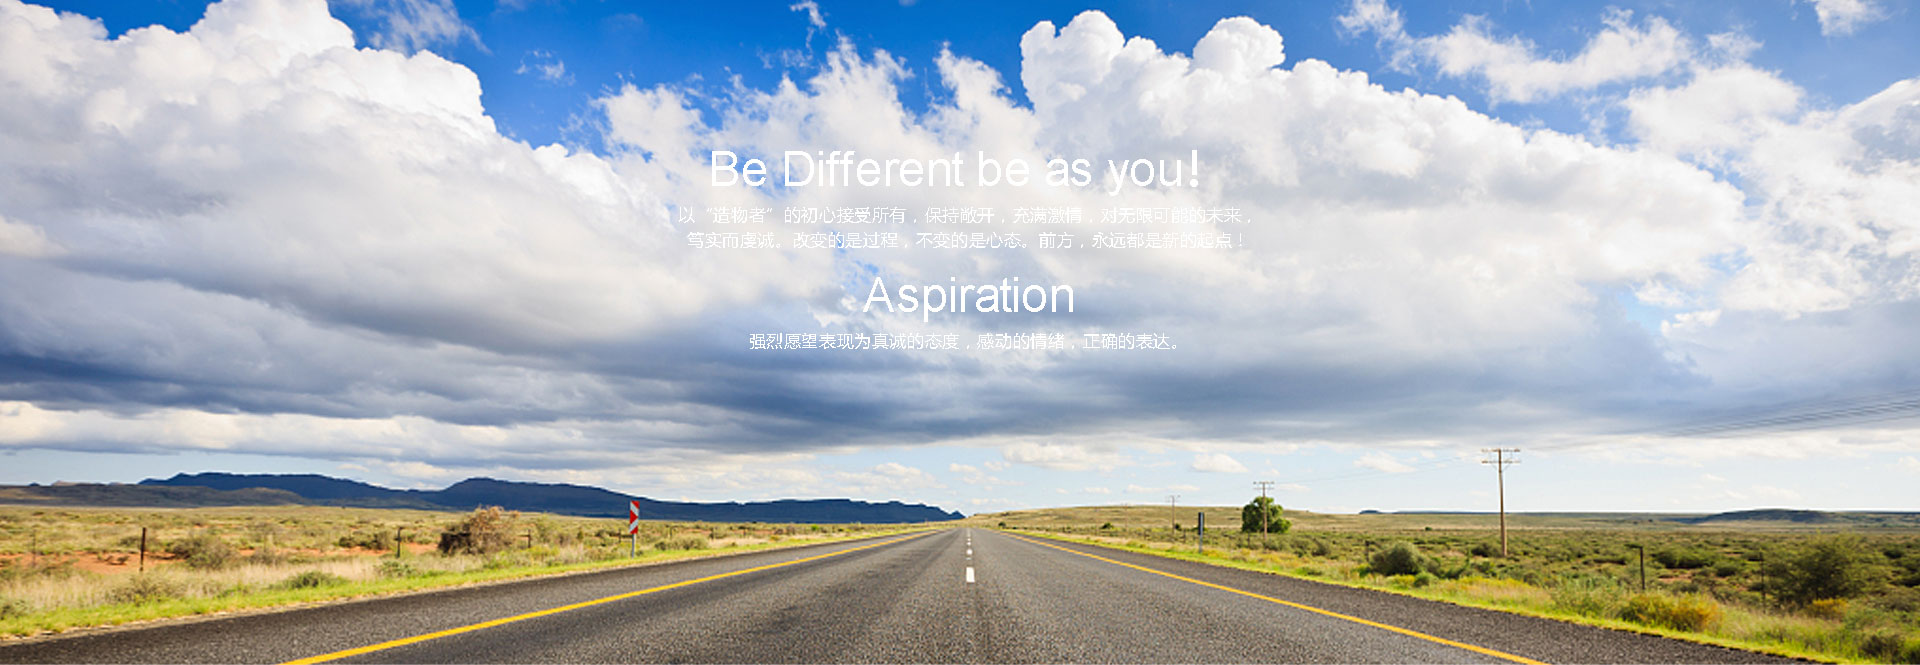
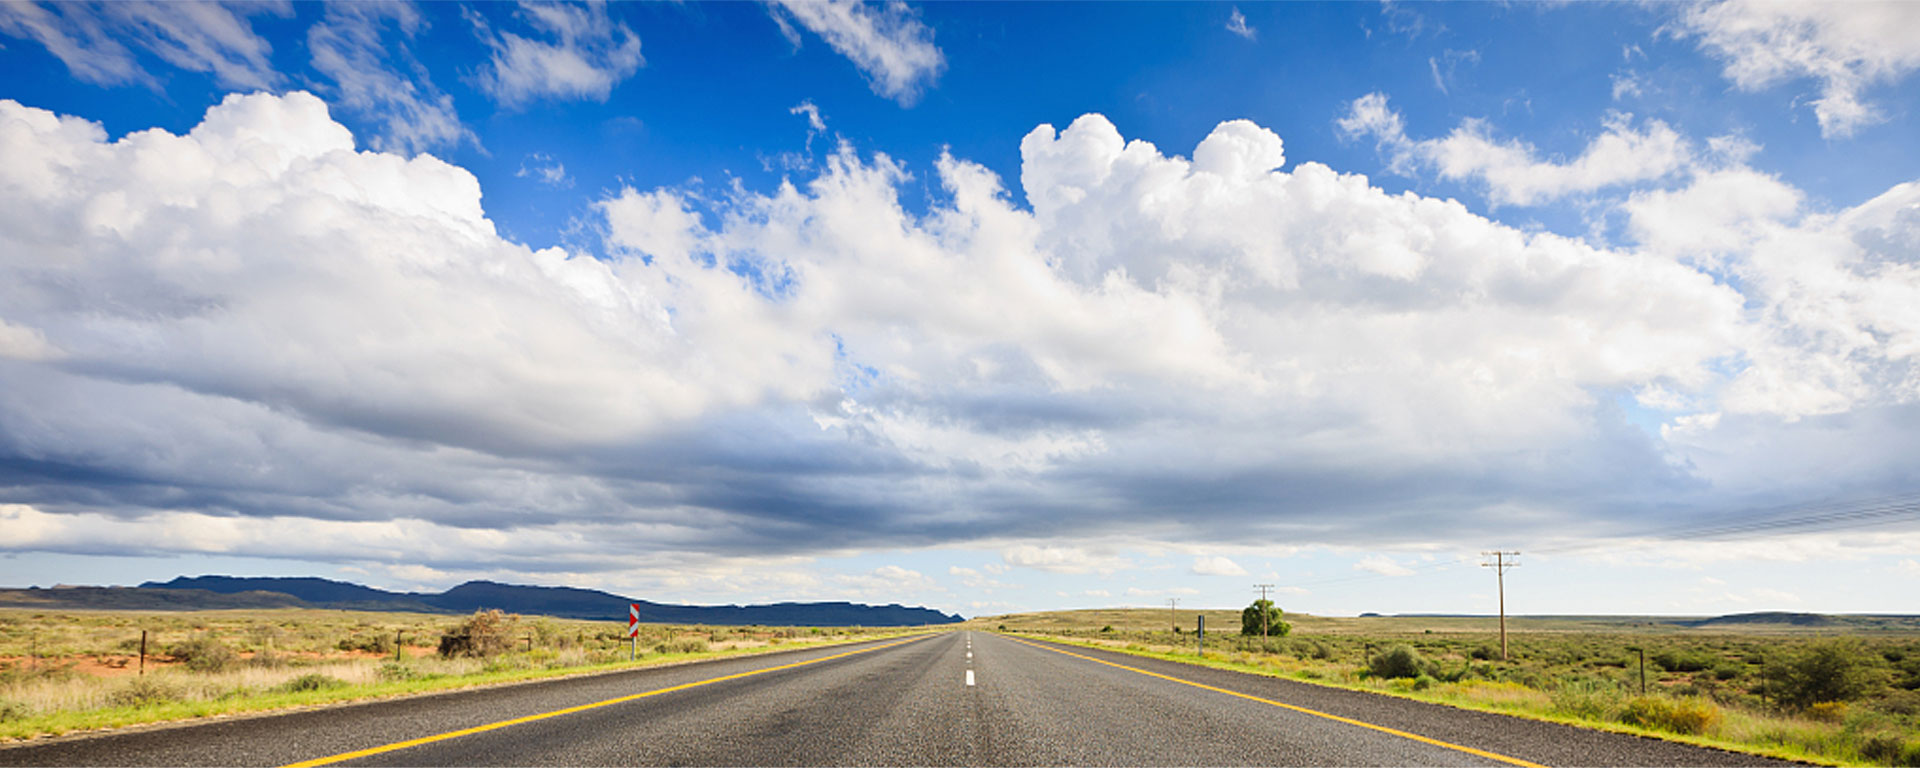
修改BUG完善理念

diff --git a/page/templates/page/faith.html b/page/templates/page/faith.html
@@ -11,12 +11,30 @@
  {% endblock %}
 {% block content %}
 <section class="main">
-<div class="down text-center"><i class="fa fa-angle-double-down" aria-hidden="true"></i></div>
+    <div class="text-center">
+            <h2>Be Different be as you！</h3>
+            <p>以“造物者”的初心接受所有，保持敞开，充满激情，对无限可能的未来，
+                <br/>笃实而虔诚。改变的是过程，不变的是心态。前方，永远都是新的起点！</p>
+            <h2>Aspiration</h3>
+            <p>强烈愿望表现为真诚的态度，感动的情绪，正确的表达</p>
+    </div>
+    <div class="down text-center">
+        <img src="/static/img/icon/down.svg" />
+    </div>
 </section>
 <div class="swiper-container row">
     <div class="swiper-wrapper">
         <div class="swiper-slide">
             <div class="sider sider0">
+                <div class="sider-text">
+                    <div class="container">
+                        <div class="col-xs-1">真诚 /</div>
+                         <div class="col-xs-10 text-deteil">对用户而言，无论是外形还是交互方式，都是一种全新的产品体验。
+                            在产品研发过程中，将“真实”的态度与每一处细节的真材实料融合，将“诚恳”的情感与用户每一次接触感触联接，使产品更加真实易懂。
+                         </div>
+                         <div class="col-xs-1"> 01/<span>09</span></div>
+                    </div>
+                </div>
             </div>
         </div>
         <!-- slider 1 end-->
@@ -31,39 +49,6 @@
             </div>
         </div>
         <!-- slider 2 end-->
-        <div class="swiper-slide">
-            <div class="sider sider2">
-                <div class="shop-link">
-                    <a class="learn_more" href="产品图.html">了解更多</a>
-                    <a class="now-bye common-btn" href="javascript;">现在购买
-                        <i class="fa fa-angle-right" aria-hidden="true"></i>
-                    </a>
-                </div>
-            </div>
-        </div>
-        <!-- slider 3 end-->
-        <div class="swiper-slide">
-            <div class="sider sider3">
-                <div class="shop-link">
-                    <a class="learn_more" href="产品图.html">了解更多</a>
-                    <a class="now-bye common-btn" href="javascript;">现在购买
-                        <i class="fa fa-angle-right" aria-hidden="true"></i>
-                    </a>
-                </div>
-            </div>
-        </div>
-        <!-- slider 4 end-->
-        <div class="swiper-slide">
-            <div class="sider sider4">
-                <div class="shop-link">
-                    <a class="learn_more" href="产品图.html">了解更多</a>
-                    <a class="now-bye common-btn" href="javascript;">现在购买
-                        <i class="fa fa-angle-right" aria-hidden="true"></i>
-                    </a>
-                </div>
-            </div>
-        </div>
-        <!-- slider 5 end-->
     </div>
     <!-- Add Pagination -->
     <div class="swiper-pagination"></div>
@@ -74,20 +59,6 @@
     </div>
 </div>
 
-
-
-<div class="  container-title" >
-    <div class="container ">
-        <h1></h1>
-        <div class="items_holder">
-                    <span class="yellowcolor">{% trans 'About Us' %} </span>
-                    <br/>
-                    <a href="首页.html">{% trans 'Home' %}</a>
-                    <a href="服务.html">/ASU {% trans 'Brand' %}</a> 
-                    <a href="服务.html">/{% trans 'About Us' %}</a> 
-        </div> 
-    </div> 
-</div>
 <div class="container  ">
     <div class="row  "> 
       <div class="col-sm-12 col-md-12 col-lg-12">

diff --git a/static/css/styles.less b/static/css/styles.less
@@ -54,18 +54,23 @@ a:link,a:hover,a:focus,a:visited{
 }
 
     section.main {
+        padding-top: 100px;
         position: relative;
         background-attachment: fixed;
         background-size: 100% 100%;
         background: url(/static/img/idea/main.jpg) no-repeat center;
+        color: #fff;
       }
     .down{
         width: 100%;
         position: absolute;
-        bottom: 15px;
-        font-size: 30px;
-        color: #fff;
+        bottom: 30px;
+        text-align: center;
+        img{
+            width: 30px;
+        }
     }
+    
     .sider {
         height: 100%;
         width: 100%;
@@ -74,4 +79,36 @@ a:link,a:hover,a:focus,a:visited{
       }
       .sider0{
         background: url(/static/img/idea/slider1.jpg) no-repeat center;
+      }
+      .f12{
+          font-size: 12px;
+      }
+      .sider-text{
+        font-size: 32px;
+        background-color: rgb(122, 122, 122);
+        color: #fff;
+        position: absolute;
+        bottom: 0px;
+        width: 100%;
+        line-height: 30px;
+        .container{
+            padding: 30px;
+            height: 90px;
+            div{
+                padding: 0px;
+                span{
+                    font-size: 14px;
+                }
+            }
+            .text-deteil{
+                font-size: 12px;
+                line-height: 1.2;
+            }
+        }
+      }
+      .swiper-pagination-fraction, .swiper-pagination-custom, .swiper-container-horizontal > .swiper-pagination-bullets{
+          bottom: 120px;
+      }
+      .swiper-wrapper{
+          padding-bottom: 90px;
       }

diff --git a/static/css/base.css b/static/css/base.css
@@ -18,7 +18,7 @@ body{
 }
 .menu a{
     font-size: 14px;
-    color: #bfc0c0;
+    color: rgb(181, 182, 182);
 }
 
 .menu a:hover, .a_img:hover{
@@ -74,14 +74,14 @@ body{
     height:5px;
     border-radius: 50%;
     margin: 0 auto;
-    background-color:#bfc0c0;
+    background-color:rgb(181, 182, 182);
 }
 
 .bottom-line{
     position: relative;
     top: -31px;
     overflow: hidden;
-    border-top: 1px solid #bfc0c0;
+    border-top: 1px solid rgb(181, 182, 182);
     z-index: -1;
 
 }
@@ -289,12 +289,12 @@ footer .pull-left{
 }
 footer .round-btn{
     display: inline-block!important;
-    width: 20px;
-    height: 20px;
-    padding: 2px;
+    width: 24px;
+    height: 24px;
+    padding: 3px;
     background-color: #fff;
     border-radius: 50%;
-    color: #6c6c6c!important;
+    color: rgb(181, 182, 182)!important;
     text-align: center;
 }
 .round-btn i{
@@ -315,8 +315,4 @@ footer{
 .btn-list li img{
     -webkit-box-shadow: 0 2px 2px 0 rgba(0,0,0,0.16), 0 0 0 1px rgba(0,0,0,0.08);
     box-shadow: 0 2px 2px 0 rgba(0,0,0,0.16), 0 0 0 1px rgba(0,0,0,0.08);
-}
-.btn-list li{
-    text-shadow: -1px 0 black, 0 1px black,
-      1px 0 black, 0 -1px black;
 }

diff --git a/static/css/cast2.css b/static/css/cast2.css
@@ -315,10 +315,9 @@
     
 }
 
-.p_title_2
+.p_title_2 img
 {
-    font-size: 26px;
-    color: #fff;
+    width: 30px;
 }
 /* base */
 .fixed-position {
@@ -370,7 +369,7 @@
   }
   /* deteil */
   .p_title {
-    font-size: 24px;
+    font-size: 26px;
   }
   section {
     position: relative;
@@ -416,7 +415,7 @@
     display: none;
     padding: 10px 0px;
     font-size: 12px;
-    color: #fff;
+    color: rgb(182, 182, 182);
   }
   .btn-list li img {
     width: 30px;

diff --git a/product/templates/product/cast2.html b/product/templates/product/cast2.html
@@ -10,7 +10,7 @@
         <!-- <span class="white_span">欢迎"触摸"</span> -->
         <span class="yellow_span">未来/一“触”即现</span>
       </p> 
-       <p class="p_title_2" ><i class="fa fa-angle-double-down" aria-hidden="true"></i></p>
+       <p class="p_title_2 text-center" ><img src="/static/img/icon/down.svg" /></p>
     </div>
     <div class="container-fluid container-second-menu ">
       <div class="container second-menu ">

diff --git a/static/css/hostpage.css b/static/css/hostpage.css
@@ -173,7 +173,7 @@
     padding: 10px 15px;
   }
   .hide-menu .btn-list li a {
-    color: #fff;
+    color: rgb(181, 182, 182);
   }
   .hide-menu #show-btn {
     position: absolute;

diff --git a/static/page/css/pagebase.css b/static/page/css/pagebase.css
@@ -5,11 +5,6 @@
     background-color: #3C3D3F;
 }
 
-.swiper-slide
-{
-     line-height: 350px;
-     text-align: center;
-}
 
 .row-select
 {
